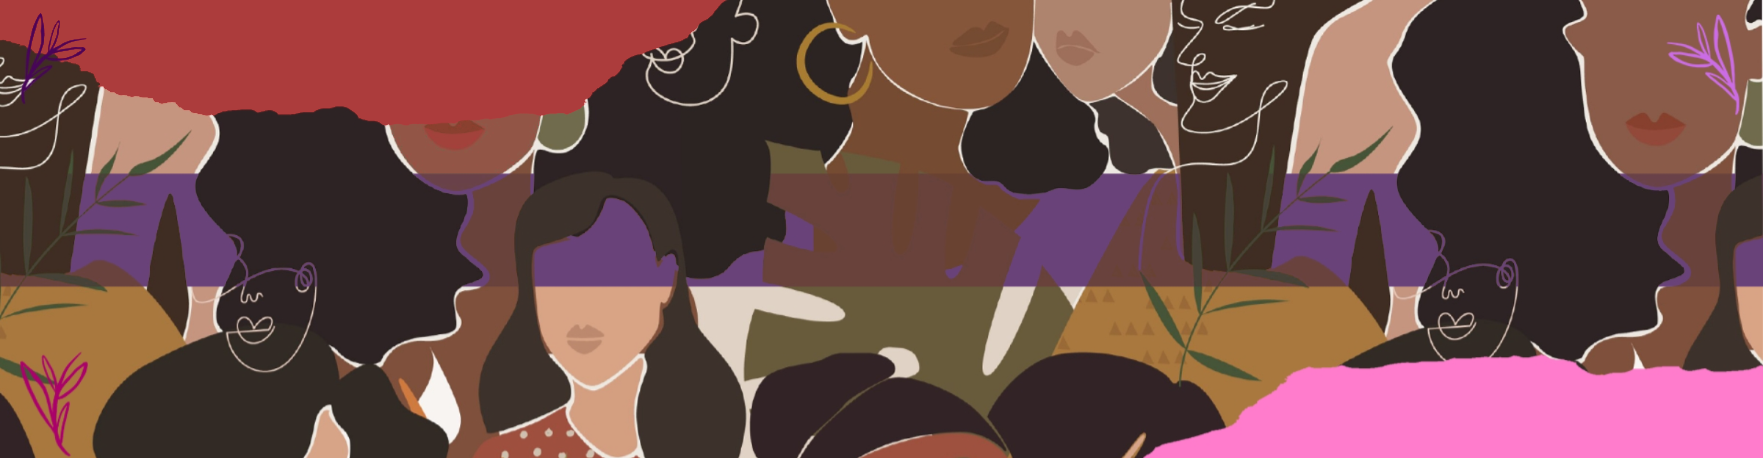
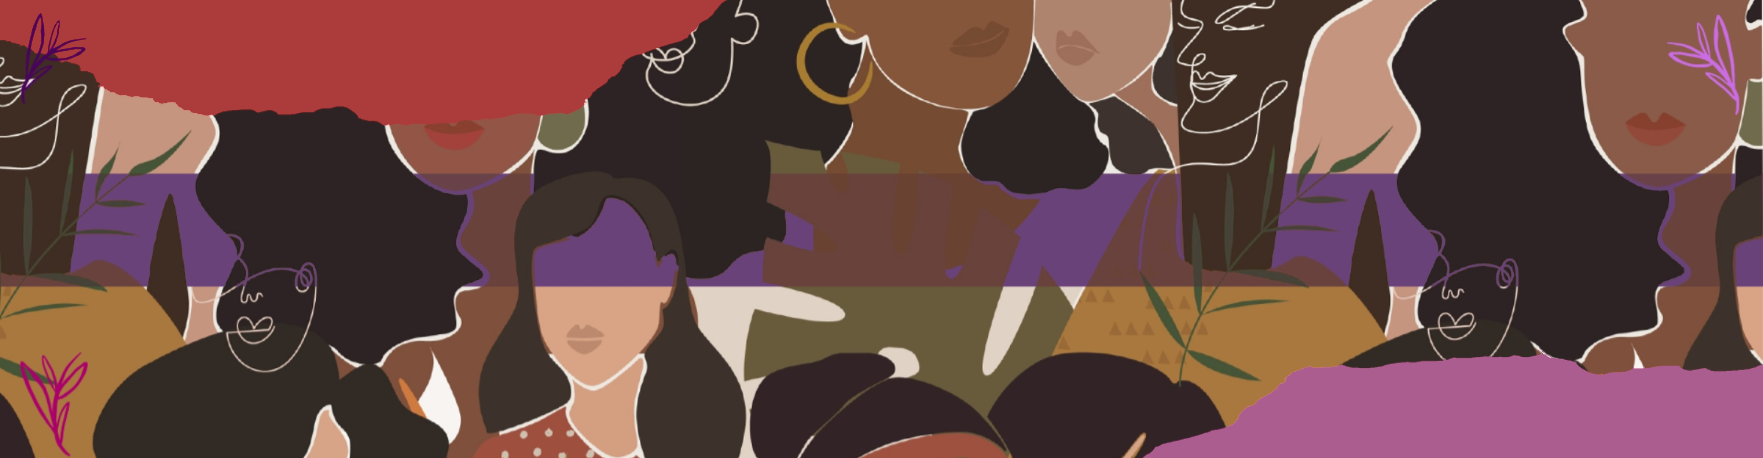
Bunch of fixes

Changed region(s): [[0.6551, 0.7642, 1.0, 1.0]]

diff --git a/index.html b/index.html
@@ -124,22 +124,6 @@
         }
       }
 
-      const glossaryToggle = ()=>{
-        if(!flags.GLOSSARY_PROC){
-          flags.GLOSSARY_PROC = true;
-          flags.GLOSSARY_OPEN = !flags.GLOSSARY_OPEN;
-          elem.GlossContent.style.animation = flags.GLOSSARY_OPEN ? 'GlossaryOpen 0.5s forwards' : 'GlossaryOpen 0.5s forwards reverse';
-          setTimeout(()=>{
-            elem.GlossContent.style.maxWidth  = flags.GLOSSARY_OPEN ? '320px' : '0px';
-            elem.GlossContent.style.maxHeight = flags.GLOSSARY_OPEN ? '600px' : '0px';
-            elem.GlossContent.style.overflow  = flags.GLOSSARY_OPEN ? 'auto'  : 'hidden';
-            elem.GlossContent.style.padding   = flags.GLOSSARY_OPEN ? '10px'  : '0px';
-            elem.GlossContent.style.animation = '';
-            flags.GLOSSARY_PROC = false;
-          }, 505);
-        }
-      }
-
       window.addEventListener('load',()=>{
         if (window.localStorage.getItem('TriggerWarningAccept')) closeTriggerWarning();
         document.querySelectorAll("a").forEach(a=>a.target="_blank");
@@ -150,7 +134,25 @@
           GlossTitle   : document.getElementById('GlossTitle'),
           GlossContent : document.getElementById('GlossContent')
         }
+        
+        elem.GlossTitle.addEventListener('click',()=>{
+          if(!flags.GLOSSARY_PROC){
+            flags.GLOSSARY_PROC = true;
+            flags.GLOSSARY_OPEN = !flags.GLOSSARY_OPEN;
+            elem.GlossContent.style.animation = flags.GLOSSARY_OPEN ? 'GlossaryOpen 0.5s forwards' : 'GlossaryOpen 0.5s forwards reverse';
+            setTimeout(()=>{
+              elem.GlossContent.style.maxWidth  = flags.GLOSSARY_OPEN ? '320px' : '0px';
+              elem.GlossContent.style.maxHeight = flags.GLOSSARY_OPEN ? '600px' : '0px';
+              elem.GlossContent.style.overflow  = flags.GLOSSARY_OPEN ? 'auto'  : 'hidden';
+              elem.GlossContent.style.padding   = flags.GLOSSARY_OPEN ? '175px 10px 10px'  : '0px';
+              elem.GlossContent.style.animation = '';
+              flags.GLOSSARY_PROC = false;
+            }, 505);
+          }
+        });
       });
+
+
     </script>
   </head>
   <body>
@@ -178,20 +180,22 @@
     </div>
 
     <div class="Glossary">
-      <div class="Title" id="GlossTitle" onclick="glossaryToggle()">Glossário</div>
+      <div class="Title" id="GlossTitle" >Glossário</div>
       <div class="_flexCentered Content" id="GlossContent">
-        <div class="Word">TESTE</div>
-        <div class="Description">Lorem ipsum dolor sit amet, consectetur adipiscing elit. Phasellus quis elementum leo, nec tempor leo. Etiam consectetur odio at mi cursus pretium. In fermentum, leo non dignissim aliquet, diam ipsum aliquam orci, id convallis tellus nisi consectetur nibh.</div>
-        <div class="Word">TESTE</div>
-        <div class="Description">Lorem ipsum dolor sit amet, consectetur adipiscing elit. Phasellus quis elementum leo, nec tempor leo. Etiam consectetur odio at mi cursus pretium. In fermentum, leo non dignissim aliquet, diam ipsum aliquam orci, id convallis tellus nisi consectetur nibh.</div>
-        <div class="Word">TESTE</div>
-        <div class="Description">Lorem ipsum dolor sit amet, consectetur adipiscing elit. Phasellus quis elementum leo, nec tempor leo. Etiam consectetur odio at mi cursus pretium. In fermentum, leo non dignissim aliquet, diam ipsum aliquam orci, id convallis tellus nisi consectetur nibh.</div>
-        <div class="Word">TESTE</div>
-        <div class="Description">Lorem ipsum dolor sit amet, consectetur adipiscing elit. Phasellus quis elementum leo, nec tempor leo. Etiam consectetur odio at mi cursus pretium. In fermentum, leo non dignissim aliquet, diam ipsum aliquam orci, id convallis tellus nisi consectetur nibh.</div>
-        <div class="Word">TESTE</div>
-        <div class="Description">Lorem ipsum dolor sit amet, consectetur adipiscing elit. Phasellus quis elementum leo, nec tempor leo. Etiam consectetur odio at mi cursus pretium. In fermentum, leo non dignissim aliquet, diam ipsum aliquam orci, id convallis tellus nisi consectetur nibh.</div>
-        <div class="Word">TESTE</div>
-        <div class="Description">Lorem ipsum dolor sit amet, consectetur adipiscing elit. Phasellus quis elementum leo, nec tempor leo. Etiam consectetur odio at mi cursus pretium. In fermentum, leo non dignissim aliquet, diam ipsum aliquam orci, id convallis tellus nisi consectetur nibh.</div>
+        <div class="Word">League of Legends</div>
+        <div class="Description">Também conhecido como LOL é um jogo do tipo MOBA 5x5 que mistura elementos de ação, aventura e RPG, cada partida tem duração média de 40 minutos.</div>
+        <div class="Word">Valorant</div>
+        <div class="Description">Um jogo estilo FPS (First-Person Shooter), 5x5 em primeiro plano, onde cada personagem tem habilidades táticas além da mecânica de tiro.</div>
+        <div class="Word">Riot Games</div>
+        <div class="Description">Desenvolvedora por trás de jogos como League of Legends (2009), Valorant (2020), Legends of Runeterra (2020), Teamfight Tactics (2019) e Wild Rift (2020).</div>
+        <div class="Word">Casters</div>
+        <div class="Description">Narradores de E-sports, transmitem, analisam, narram e dão vozes e espírito as competições que acontecem.</div>
+        <div class="Word">Streaming</div>
+        <div class="Description">Transmissão de conteúdos em formato digital, como por exemplo o Youtube, Netflix, Spotify, etc.</div>
+        <div class="Word">FPS</div>
+        <div class="Description">Sigla para First Person Shooter. Estilo de jogo onde se vê em primeira pessoa.</div>
+        <div class="Word">Gameplay</div>
+        <div class="Description">Pode ser traduzido como jogabilidade, mas é costumeiramente usado para se referir a um vídeo de uma pessoa jogando, seja gravado e editado, ou em forma de live.</div>
       </div>
     </div>
 
@@ -234,7 +238,7 @@
 
     <div class="_flexCentered ContentSection">
       <div class="Separator">
-        <img src="/assets/images/TopBanner.gif"asd style="height: calc(100vh - 70px); object-fit: cover;">
+        <img src="/assets/images/TopBanner.gif" style="height: calc(100vh - 70px); object-fit: cover;">
         <div class="MainTitle" id="SeparatorIntroduction">
           ESPORTS E PRECONCEITO:
           <br>
@@ -256,10 +260,10 @@
       </div>
       <div class="_flexCentered TextSection" style="background-color: #ac3c3c">
         
-        <iframe class="YoutubeIFrame" src="https://www.youtube.com/embed/9kw0gcg3KXk"  frameborder="0" allow="clipboard-write; encrypted-media; picture-in-picture" allowfullscreen></iframe>
+        <iframe class="YoutubeIFrame" src="https://www.youtube.com/embed/wjcz-T82984"  frameborder="0" allow="clipboard-write; encrypted-media; picture-in-picture" allowfullscreen></iframe>
         
         <div class="TextBlock">
-          <h1>História EM JOGOS ONLINE</h1>
+          <h1>História</h1>
           
           <div class="Text">
             <img class="ImgRight" src="assets/images/OldLanParty.jpg" alt="Competição Antiga">
@@ -269,14 +273,14 @@
               Já a partir de 2010 o streaming popularizou-se pela plataforma Twitch, e além de muitas pessoas começarem a jogar, muitos mais se tornaram espectadores de jogos eletrônicos e dos campeonatos.
           </div>
 
-          <h1>A indústria de games é a mais lucrativa<br>do ramo de entretenimento</h1>
+          <h2>A indústria de games é a mais lucrativa<br>do ramo de entretenimento</h2>
           <div class="Text">
             Hoje em dia, é muito claro a evolução dos esports. Para se ter noção, em 2018 e 2019 foi oferecido, aproximadamente, US$ 393,5 milhões de dólares em premiações de campeonatos de esportes eletrônicos, o qual superou, em apenas 2 anos, todas as premiações oferecidas na década anterior.
             Seja no smartphone, console, tablet ou PC, há 2,3 bilhões de gamers pelo mundo. Eles movimentam uma indústria que também é bilionária. De acordo com um relatório da NewZoo, empresa de análise de games e esports (sigla de esportes eletrônicos), a expectativa é que este novo mercado global alcance US$ 180 bilhões de receita em 2021.
             Dentro do esports, o segmento que mais cresce é o de MMO (“massively multiplayer online”, ou jogos entre equipes). São exemplos o Fortnite, League of Legends, CS:GO, entre outros. Atualmente, o MMO corresponde a cerca de um terço desse mercado.
           </div>
 
-          <h1>No Brasil</h1>
+          <h2>No Brasil</h2>
           <div class="Text">
             Atualmente, o Brasil pode se considerar um país de gamers. Desde 2004, o setor de esportes eletrônicos se profissionalizou, com criação da Associação Brasileira de Games (AbraGames) e a Associação Comercial, Industrial e Cultural dos Jogos Eletrônicos no Brasil (Acigames).
             Somos o 1º em consumo de jogos da América latina e o 4º no mundo, com quase 100 milhões de pessoas jogando em todo o país.
@@ -285,7 +289,7 @@
             De acordo com a Pesquisa Game Brasil de 2021, que entrevistou 12.498 em todo o Brasil, temos:
           </div>
 
-          <h1>Perfil dos gamers brasileiros</h1>
+          <h2>Perfil dos gamers brasileiros</h2>
           <div class="Text">
             A Pesquisa Game Brasil de 2021, coletou dados de mais de 12 mil entrevistados. Com as respostas, foi possível obter informações importantes sobre o gamer brasileiro. São elas:
           </div>
@@ -293,8 +297,6 @@
           <div class="CenteredImg"><img src="/assets/images/infografico.png"></div>
 
           <div class="CenteredImg" style="padding: 15px; border-radius: 50px; background-color: #d68282;"><img src="/assets/images/Ages.png"></div>
-          
-          <div class="CenteredImg"><img src="/assets/vectors/minorias.svg" style="width: 100%; max-width: 450px; margin: 0px auto; background-size: cover;"></div>
         </div>
       </div>
 
@@ -302,9 +304,12 @@
         <img src="/assets/images/PatriarchySeparator.png">
         <div>MACHISMO EM JOGOS ONLINE</div>
       </div>
-      <div class="_flexCentered TextSection" style="background-color: #ff7ccc;">
-        <div class="TextBlock" style="color: black !important;">
-          <div class="Text">Ofensas são facilmente distribuídas quando não se tem um rosto a quem desferir, ainda mais em se tratando de preconceitos que já estão enraizados há muito tempo na sociedade, como o machismo que afeta tanto homens e mulheres, desde a base familiar até suas relações interpessoais.</div>
+      <div class="_flexCentered TextSection" style="background-color: #aa5d8e;">
+        <div class="TextBlock">
+          <div class="Text">
+            <div class="ImgRight"><img src="/assets/images/minorias.png" style="background-size: cover;"></div>
+            Ofensas são facilmente distribuídas quando não se tem um rosto a quem desferir, ainda mais em se tratando de preconceitos que já estão enraizados há muito tempo na sociedade, como o machismo que afeta tanto homens e mulheres, desde a base familiar até suas relações interpessoais.
+          </div>
           <div class="Text">Isso é levado para outras vivências e outras histórias, prejudicando o progresso de minorias que, por sua vez, não são quantitativas e sim oprimidas por um sistema criado e que reforça estereótipos que são visto até em hobbies, como os jogos online.</div>
           <div class="Text">Até mesmo em jogos de fliperama ou vídeo games, personagens centrais eram masculinos ou o foco dos jogos eram para meninos. Em sites de jogos havia distinções de jogos focados para meninas, eram jogos da Barbie, de vestidos, de casa, de culinária. Até que começaram a ingressar no universo online em que se pode interagir em tempo real com seus personagens e de acordo com o seu gosto.</div>
           <div class="Text">Porém com eles vieram os preconceitos, a imersão feminina no cenário online não foi tão bem receptiva quanto esperada, afinal, precisavam se adaptar, algo que as pessoas do outro lado não tinham paciência em esperar, então “vai lavar a louça” ou “você não tinha que estar aqui”, até “este jogo não é para meninas” eram as frases mais ouvidas em partidas por mulheres.</div>
@@ -315,6 +320,7 @@
           <div class="Text">Outras questões também têm sido levantadas com o tempo. No início do ano, <a href="https://brasil.elpais.com/esportes/2021-02-08/assedio-sexual-estupro-e-racismo-a-onda-de-denuncias-que-furou-a-bolha-toxica-dos-gamers.html">cinco profissionais do cenário foram expostos por assédio e abusos nas redes sociais</a> desencadeando em diversos outros crimes que foram sendo explanados para fora da bolha gamer.</div>
           <div class="Text">Será que as mulheres têm liberdade para participar, treinar e competir nos cenários?</div>
 
+          <div class="CenteredImg"><img class="CenteredImg" src="/assets/images/WomanVoice.png" style="max-width: 700px;"></div>
           <h1>Voz às mulheres</h1>
           <div class="Text">Já está claro que o machismo afeta constantemente as mulheres e LGBTQIA+’s na sociedade, e o ambiente dos jogos online é apenas mais um espaço dominado por homens, no qual os casos de assédios, lgbtfobia, misoginia, etc, ficam ainda mais evidentes e recorrentes.</div>
           <div class="Text">A disparidade entre o número de homens e mulheres no esports, por exemplo, só demonstra tudo o que já foi dito, mas relatos de jogadoras deixam essa situação, mais que evidente, preocupante.</div>
@@ -322,8 +328,8 @@
           <div class="Text">Grande parte das mulheres e LGBTQIA+’s que responderam à pesquisa, disseram ter ouvido comentários preconceituosos, ofensivos e até mesmo criminosos de jogadores de League of Legends e Valorant, principalmente.</div>
           <div class="Text">As falas relatadas no formulário se assemelham às das entrevistadas Evelyn “Coelha”, streaming carioca profissional da Twitch, e Brenda Nunes, gamer amadora. Ambas afirmam que já se deparam com esses tipos de falas em chats e conversas por áudios dentro das partidas.</div>
           
-          <h1>Evelyn</h1>
-          <div class="Text">Evelyn tem 23 anos e é conhecida como ‘Coelha’ nos jogos eletrônicos que participa, como Valorant, LOL, Genshi e outros lançamentos. Começou profissionalmente na Twitch a pouco mais de um ano, com lives diárias para cumprir as metas da plataforma e conseguir, com isso, ajudar nas contas da casa.</div>
+          <h2>Evelyn</h2>
+          <div class="Text">Evelyn tem 23 anos e é conhecida como ‘Coelha’ nos jogos eletrônicos que participa, como Valorant, LOL, Genshi e outros lançamentos. Começou profissionalmente na <a href="https://www.twitch.tv/evecoelha">Twitch</a> a pouco mais de um ano, com lives diárias para cumprir as metas da plataforma e conseguir, com isso, ajudar nas contas da casa.</div>
           <div class="Text">Ela diz que o preconceito por ser mulher nos games já começa em seu nick. <i>“Só pelo meu nome ser coelha, já sabiam. “Tinha que ser mulher”, e ficavam me trolando, me sabotando no jogo. Isso aconteceu no Valorant, ficavam querendo me matar, ou me atrapalhar, me impedindo de jogar, isso aconteceu várias vezes, mas eu nunca deixei de mudar o meu nick por conta disso.”</i></div>
           <div class="Text">Já quando perguntada se em suas lives ela escuta os mesmos comentários machistas que nas partidas, comenta “Eu gosto de dizer que a minha live é a minha comunidade mesmo, o meu chat é a melhor coisa da minha live, todo mundo recepciona todos muito bem”.</div>
           <div class="Text">Mas mesmo assim há momentos difíceis, como podemos ver em um print disponibilizado por ela de um caso real de ataque de bots que aconteceu em uma de suas lives:</div>
@@ -341,7 +347,7 @@
           <div class="Text">Evelyn comenta também que o Valorant, mesmo com seus problemas, ainda é o jogo com mais representatividade feminina, tendo até mesmo conseguido entrar em um time como profissional paga. <i>“Valorant foi o meu primeiro FPS e eu sou apaixonada, larguei totalmente os meus 9 anos de league of legends, e eu consegui um time depois de um mês, remunerado ainda.”</i></div>
           <div class="Text">Mas não é sempre assim, outra jogadora competitiva do mesmo jogo, Brenda Nunes, relata ter desistido de fazer dos jogos uma atividade mais séria por conta do preconceito.</div>
         
-          <h1>Brenda</h1>
+          <h2>Brenda</h2>
           <div class="Text">Brenda Nunes, 17,  é, atualmente, uma jogadora amadora competitiva de Valorant, mas começou na vida gamer mais cedo, no vídeo game, em games como R6 e Fortnite.</div>
           <div class="Text">Ela é mais uma como tantas outras mulheres que escuta, rotineiramente, comentários preconceituosos em partidas, seja por apresentar apenas um nickname feminino, como por sua voz.</div>
           <div class="Text"><i>“No vídeo game era o meu nome real, tava lá Brenda, às vezes eu mal entrava e o pessoal já começava a falar alguma bosta, alguma coisa relacionada, tipo “ahh é mulher, é mulher não, é travesti” coisa bem desnecessária sabe, sendo que eu só entrei porque eu queria jogar, porque eu queria me divertir. Isso me desanimava total, então eu parava e ia assistir alguma coisa. Agora no computador eu troquei, mudei o meu nick.”</i></div>
@@ -355,8 +361,7 @@
           <div class="Text">Tanto Evelyn quanto Brenda já denunciaram jogadores que fizeram comentários preconceituosos, mas disseram que nem sempre têm retorno da empresa, e quando conseguem, não são claros quanto a atitude tomada contra aquele que foi reportado.</div>
           <div class="Text">Coelha ainda diz: <i>“Você vai mandar um report provavelmente aquela pessoa já tomou uns 500, já tem print pra caraca daquela pessoa xingando pra caraca e isso é de qualquer coisa e não tem um retorno, você não tem a resposta, o cara não vai ser banido, ele não vai ser punido, não vai acontecer nada com ele. Por isso as pessoas fazem o que fazem, porque elas sabem que não vão ser punidas e não vai acontecer nada com elas, então elas vão mais e mais propagando ódio de todas as formas e a maioria não tem coragem de dizer isso pessoalmente. Elas fazem porque sabem que não vai dar em nada e a internet é um mundo livre, e a pessoa fala o que quiser, seja em jogo, seja na internet, tik tok, instagram e tudo mais.”</i></div>
 
-          <h1>Projeto Sakuras com Thais Queiroz</h1>
-          <div class="CenteredImg"><a href="https://www.sakurasesports.com.br/"><img class="CenteredImg" src="/assets/images/SakuraLogo.png" style="max-width: 500px;"></a></div>
+          <div class="CenteredImg" style="margin: 35px 0px 10px;"><a href="https://www.sakurasesports.com.br/"><img class="CenteredImg" src="/assets/images/SakuraLogo.png" style="max-width: 500px;"></a></div>
           <div class="Text">A estudante de psicologia Thais Queiroz, de 24 anos, desejava ter uma mulher como inspiração no meio de jogos online. Infelizmente, Thais encontrou um meio majoritariamente masculino. </div>
           <div class="Text">Inspirada nisso, Thais criou em 2018, junto com outras mulheres, o Projeto Sakuras Esports, que tem como iniciativa trazer visibilidade às mulheres dentro do cenário gamer, incentivar a competitividade e estimular a parceria entre elas mesmas, tanto dentro quanto fora do jogo. Para isso o projeto fornece diversos mecanismos para o desenvolvimento das jogadoras de forma 100% gratuita, sendo por meio de campeonatos exclusivamente femininos, divulgação de material voltado para streaming e criação de conteúdo ou workshops de áreas específicas.  Atualmente, o projeto conta com mais de 100 mulheres voluntárias trabalhando diariamente para fazer tudo acontecer.</div>
           <div class="Text">Iniciativas como essa trazem a representatividade feminina no cenário gamer à tona. Segundo Thais, não faltavam mulheres nesse cenário, e sim representatividade. “Eu não tinha uma mulher para me inspirar, eu não conseguia achar uma mulher que trabalhasse nesse meio para me inspirar, somente homens”, disse Thais.</div>
@@ -373,11 +378,11 @@
       <div class="_flexCentered TextSection"  style="background-color: rgb(132, 83, 60);">
         <div class="TextBlock">
           
-          <div style="margin-bottom: 30px;" class="CenteredImg"><a href="https://www.sakurasesports.com.br/"><img class="CenteredImg" src="/assets/images/LawTimeline.png" ></a></div>
+          <div style="margin-bottom: 30px;" class="CenteredImg"><img class="CenteredImg" src="/assets/images/LawTimeline.png" ></div>
           
         </div>
         
-        <iframe class="YoutubeIFrame" src="https://www.youtube.com/embed/LWyozlCYhgo"  frameborder="0" allow="clipboard-write; encrypted-media; picture-in-picture" allowfullscreen></iframe>
+        <iframe class="YoutubeIFrame" src="https://www.youtube.com/embed/l6pzU_n2Bg0"  frameborder="0" allow="clipboard-write; encrypted-media; picture-in-picture" allowfullscreen></iframe>
 
         <div class="TextBlock">
 
@@ -395,8 +400,8 @@
           <div class="Text">E isso é costumeiro, como também mostra a imagem tirada do, já citado, formulário realizado pela equipe Report sobre preconceitos nos jogos eletrônicos. Os ataques racistas só são levados adiante com denúncias quando acontecem em lives grandes e com jogadores reconhecidos, senão, viram apenas estatística de crime e impunidade.  </div>
           <div class="Text">Em entrevista com os jogadores Suzane Gomes e João Lucas Isidorio Miranda, o peso de ser uma pessoa preta no ambiente dos jogos eletrônicos fica evidente, mas não supera a vontade de marcar presença em um espaço que deve ser de todos.</div>
         
-          <h1>Suzane “sazuneeee”</h1>
-          <div class="Text">Suzane Gomes, 25, é streamer da Twitch e da Booyah, transmitindo jogos como CS:GO e Valorant. Apesar de ser formada em Ciências da Computação, faz as lives de forma séria, mas também a usa para interagir com sua comunidade de um modo descontraído e divertido, fazendo o que sempre gostou: jogar.</div>
+          <h2>Suzane “sazuneeee”</h2>
+          <div class="Text">Suzane Gomes, 25, é streamer da <a href="https://www.twitch.tv/sazuneeee">Twitch</a> e da Booyah, transmitindo jogos como CS:GO e Valorant. Apesar de ser formada em Ciências da Computação, faz as lives de forma séria, mas também a usa para interagir com sua comunidade de um modo descontraído e divertido, fazendo o que sempre gostou: jogar.</div>
           <div class="Text"><i>“Minha comunidade ainda não é tão grande, mas tem uma galera que está sempre ali, tudo o que eu faço, tudo o que eu posto, eles sempre me dão muito apoio. [...] É um pessoal que já virou até amigo já.”</i></div>
           <div class="Text">Sua trajetória nos games começou na infância, jogando no console Super Nintendo com seu pai e sua irmã.<i>“Eu sempre via meu pai jogando, a minha irmã também jogava videogame, e aí, quando todo mundo parou, eu continuei, só que então eu fui para o PC, comecei a jogar no computador.”</i></div>
           <div class="Text">Depois disso, entre 2014 e 2015, Suzane criou um canal no YouTube de gameplays, mas apenas gravava e colocava edições por cima. Com esse início bem diferente do que é hoje, foi incentivada por amigos a começar a fazer lives e assim iniciou tímida e esporadicamente.</div>
@@ -416,7 +421,7 @@
           <div class="Text">Sendo assim, a vivência de Suzane Gomes nos jogos eletrônicos é mostrada como animadora e positiva, superando tudo que escuta e escutou de negativo e sendo apoiada por quem acredita em seu trabalho e se identifica com sua caminhada.</div>
           <div class="Text">Mas não é sempre que este lado prevalece. João nos mostra um lado mais sério e denso do preconceito racial nos games.</div>
 
-          <h1>João Lucas</h1>
+          <h2>João Lucas</h2>
           <div class="Text">João Lucas, de 23 anos, é do Rio de Janeiro e é o retrato da maior parte dos gamers brasileiros: joga apenas para se divertir, conversar com os amigos nas partidas e desestressar da rotina.</div>
           <div class="Text">Mas não é sempre que seu hobbie representa um momento tranquilo. Os prints mostrados no vídeo acima retratam bem o preconceito racial enraizado no nosso país. </div>
           <div class="Text">Neste caso, segundo João, quando percebeu que as ofensas não paravam, resolveu printar sua tela a fim de usar as imagens como provas para denunciar o seu agressor para a desenvolvedora do jogo, a Riot. Porém, a devolutiva da empresa não foi suficiente.</div>
@@ -437,7 +442,7 @@
           <div class="Text Quote">“Pra mim o principal problema é como funciona a cabeça da pessoa. Eu sei que eu sou negro, você falar isso pra mim não muda nada na minha vida, eu olho no espelho e pra mim isso não é nenhum motivo pra eu me envergonhar ou me sentir menor, eu sei que eu sou negro. [...] O principal problema é como você enxerga ou como você pensa sobre isso na sua vida, na sua cabeça. Porque você tá me xingando achando que isso é ser menor, então você acha que a pessoa negra é menor que você, mas ela não é.”</div>
           <div class="Text">Para entendermos melhor a questão de como funciona o preconceito e por que ele ocorre, a equipe Report teve a ajuda da psicóloga Beatriz Godói.</div>
 
-          <h1>Beatriz Godói</h1>
+          <h2>Beatriz Godói</h2>
           <div class="Text">Para entendermos melhor a questão de como funciona o preconceito e por que ele ocorre, a equipe Report teve a ajuda da psicóloga Beatriz Godoi, de 43 anos, Bragança Paulista – São Paulo.</div>
           <div class="Text">A profissional cita a construção da sociedade, toda a base estrutural sendo regida por pré conceitos fundamentados e estudados pela história, antropologia e psicanálise, algo que vem sido levado até os dias atuais e tomando novas proporções por conta da internet.</div>
           <div class="Text">Referente a mesma indagação enfrentada por João Lucas, Beatriz aponta sobre o conforto que os agressores sentem ao proferirem ataques de ódio no meio das partidas. “As redes sociais propiciam os ataques, pois é uma possibilidade das pessoas falarem, emitirem suas opiniões, sem a princípio, confrontar com o outro, cara a cara”.</div>
@@ -445,10 +450,10 @@
           <div class="Text">Estar em um lugar competitivo pode ser benéfico para uns, trazendo o lado esportivo entre concorrentes, porém, em ambientes online tem-se visto outro tipo de experiência, gerando um comportamento maléfico para os demais. No caso de todas as personalidades apresentadas ao longo desta reportagem, seja a trabalho ou como um hobbie, estar em meios cujo preconceito prevalece pode colocar em risco sua saúde mental. </div>
           <div class="Text">Afinal, tais preconceitos podem vir de forma sutis também, sendo camuflados inclusive na cabeça da vítima que não consegue identificar o que está sentindo. A psicóloga explica: “Não se trata de uma situação natural, mas envolve uma construção histórica, social. Por vezes, entranha-se em uma interseccionalidade, que seria: classe social, questão racial, gênero. Por fim, envolve as fantasias e as atribuições de valores de cada pessoa. Eles se normatizam e se encerram apenas na descrição destes.”</div>
           <div class="Text">Apesar de ser árdua a trajetória na internet, a própria comunidade do esports vem se esforçando para reforçar a necessidade da representatividade e trazer conforto para todos que buscam se entreter no ciberespaço. </div>
-          <div class="Text">Suzane relembra dos ataques que a streammer Sher Machado sofreu em suas lives. O quão inspirador foi para ela ver a jogadora não se abalar. Isso é algo que a motiva a trabalhar mais em suas transmissões. Assim como ressaltado pela psicóloga “Mesmo tendo conflitos, crises, dar voz às narrativas diversas, com certeza é um ganho tremendo para a humanidade”.</div>
+          <div class="Text">Suzane relembra dos ataques que a streamer Sher Machado sofreu em suas lives. O quão inspirador foi para ela ver a jogadora não se abalar. Isso é algo que a motiva a trabalhar mais em suas transmissões. Assim como ressaltado pela psicóloga “Mesmo tendo conflitos, crises, dar voz às narrativas diversas, com certeza é um ganho tremendo para a humanidade”.</div>
 
           <h1>A Luta Não Para</h1>
-          <div class="Text">Campanhas vêm sendo realizadas para a diminuição dos ataques na internet, recentemente, o Globo Esportes lançou a #respeitoehojogo como uma iniciativa para combater o racismo nos jogos online. O SBT Games também destacou, no Mês da Consciência Negra, a importância de termos diversidade e representatividade no cenário gamer. A luta contra o preconceito também é representada em projetos como Sakuras, Wakanda e a Copa Rebecca Heineman - destinada apenas a pessoas transexuais e transgêneros, dentre outros projetos.</div>
+          <div class="Text">Campanhas vêm sendo realizadas para a diminuição dos ataques na internet, recentemente, o <a href="https://ge.globo.com/esports/noticia/ge-lanca-campanha-contra-racismo-e-incentiva-a-diversidade-nos-esports.ghtml">Globo Esportes</a> lançou a #respeitoehojogo como uma iniciativa para combater o racismo nos jogos online. O <a href="https://twitter.com/SBT_Games/status/1463206069858091008">SBT Games</a> também destacou, no Mês da Consciência Negra, a importância de termos diversidade e representatividade no cenário gamer. A luta contra o preconceito também é representada em projetos como Sakuras, Wakanda e a Copa Rebecca Heineman - destinada apenas a pessoas transexuais e transgêneros, dentre outros projetos.</div>
           <div class="Text">A internet é um espaço para todos poderem usufruir, independentemente de sua cor, credo ou gênero. Jogos online nasceram com o intuito de entreter, divertir e passar o tempo, e hoje destacam-se, além destes quesitos, por estarem no âmbito competitivo e gerarem empregos. </div>
           <div class="Text">Assim, não dá pra tolerar e deixar o ódio continuar se manifestando entre as partidas. O melhor a se fazer é denunciar e apoiar aqueles que sofreram com os ataques: </div>
           <div class="Text Quote">“A melhor atitude seria o acolhimento, o apoio, a escuta e o encorajamento para a procura de atendimento psicológico; se acaso haja o desejo. Do mesmo modo, dar voz às pessoas, ampliar o lugar de fala nas instituições, sociedade é uma tremenda ação que favorece a saúde mental e a progressão de uma cultura”, defende a psicóloga.</div>

diff --git a/assets/SASS.scss b/assets/SASS.scss
@@ -15,7 +15,7 @@ $GlossaryMaxHeight: 600px;
 @keyframes GlossaryOpen {
   0% { max-width: 0px; max-height: 0px; padding: 0px }
   99% { overflow: hidden;}
-  100% { max-width: $GlossaryMaxWidth; max-height: $GlossaryMaxHeight;  padding: 10px; overflow: auto;}
+  100% { max-width: $GlossaryMaxWidth; max-height: $GlossaryMaxHeight;  padding: 175px 10px 10px; overflow: auto;}
 }
 
 
@@ -63,7 +63,7 @@ $GlossaryMaxHeight: 600px;
 
     .Description{
       text-align: justify;
-      margin-bottom: 10px;
+      margin-bottom: 20px;
       font-style: italic;
     }
   }
@@ -189,7 +189,7 @@ $GlossaryMaxHeight: 600px;
       margin-bottom: 10px;
 
       a,a:visited{
-        color:#00a1ff;
+        color:#94d9ff;
       }
 
       &.Quote{
@@ -235,6 +235,13 @@ $GlossaryMaxHeight: 600px;
     margin: 50px 0px 30px;
     text-align: center;
     font-weight: 300;
+  }
+
+  h2{
+      font-size: clamp(25px, 2.3vw, 40px);
+      margin: 40px 0px 20px;
+      text-align: left;
+      font-weight: 300;
   }
 }
 

diff --git a/styles.css b/styles.css
@@ -18,7 +18,7 @@
   100% {
     max-width: 320px;
     max-height: 600px;
-    padding: 10px;
+    padding: 175px 10px 10px;
     overflow: auto;
   }
 }
@@ -64,7 +64,7 @@
 }
 .Glossary .Content .Description {
   text-align: justify;
-  margin-bottom: 10px;
+  margin-bottom: 20px;
   font-style: italic;
 }
 
@@ -179,7 +179,7 @@
   margin-bottom: 10px;
 }
 .TextSection .TextBlock .Text a, .TextSection .TextBlock .Text a:visited {
-  color: #00a1ff;
+  color: #94d9ff;
 }
 .TextSection .TextBlock .Text.Quote {
   padding: 0px 10%;
@@ -214,6 +214,12 @@
   font-size: clamp(35px, 2.5vw, 50px);
   margin: 50px 0px 30px;
   text-align: center;
+  font-weight: 300;
+}
+.TextSection h2 {
+  font-size: clamp(25px, 2.3vw, 40px);
+  margin: 40px 0px 20px;
+  text-align: left;
   font-weight: 300;
 }
 
